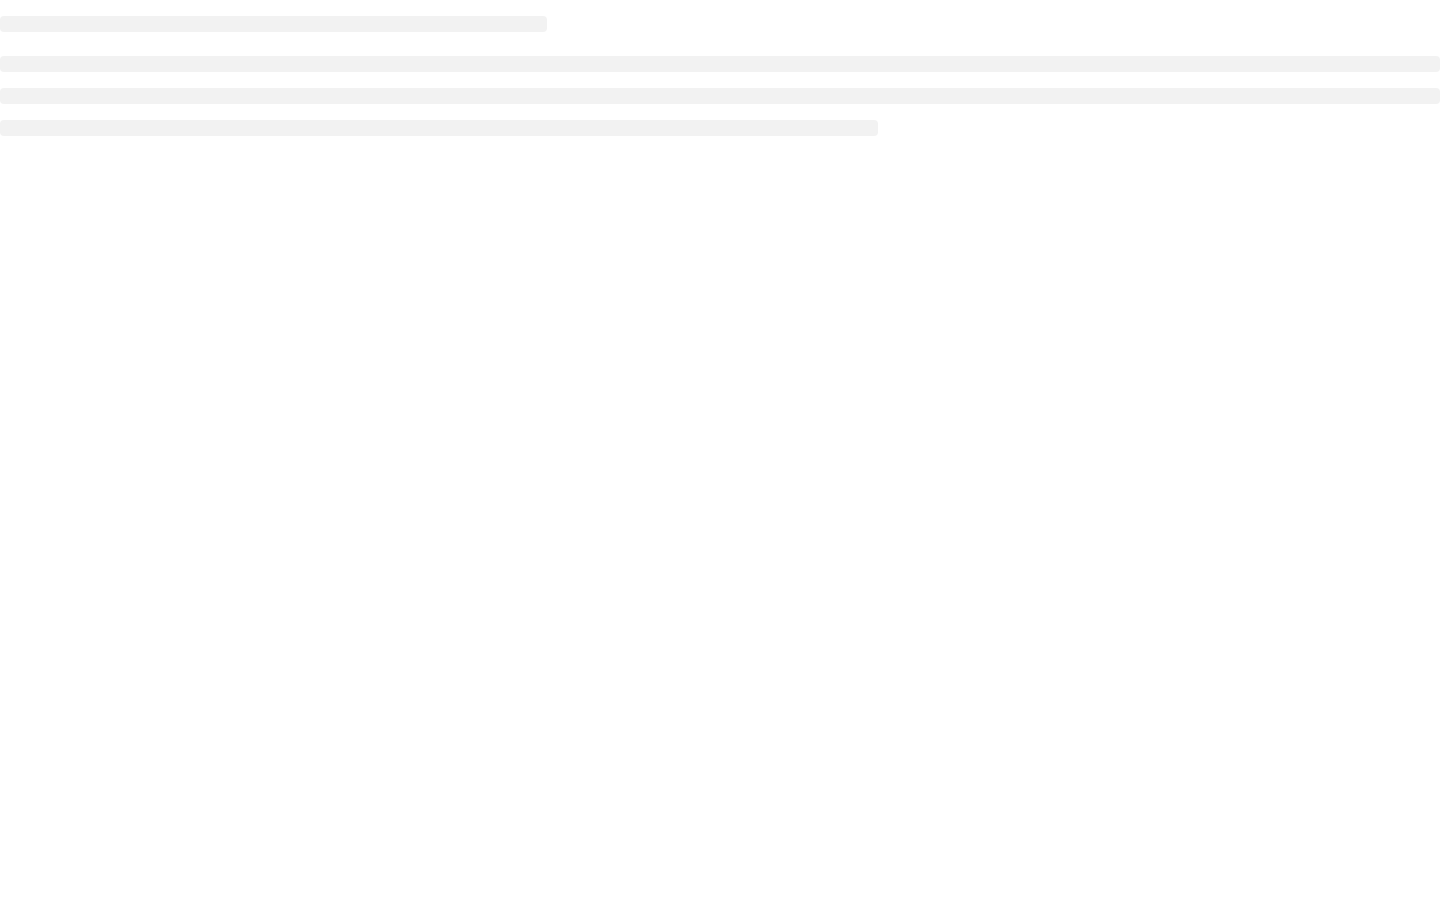
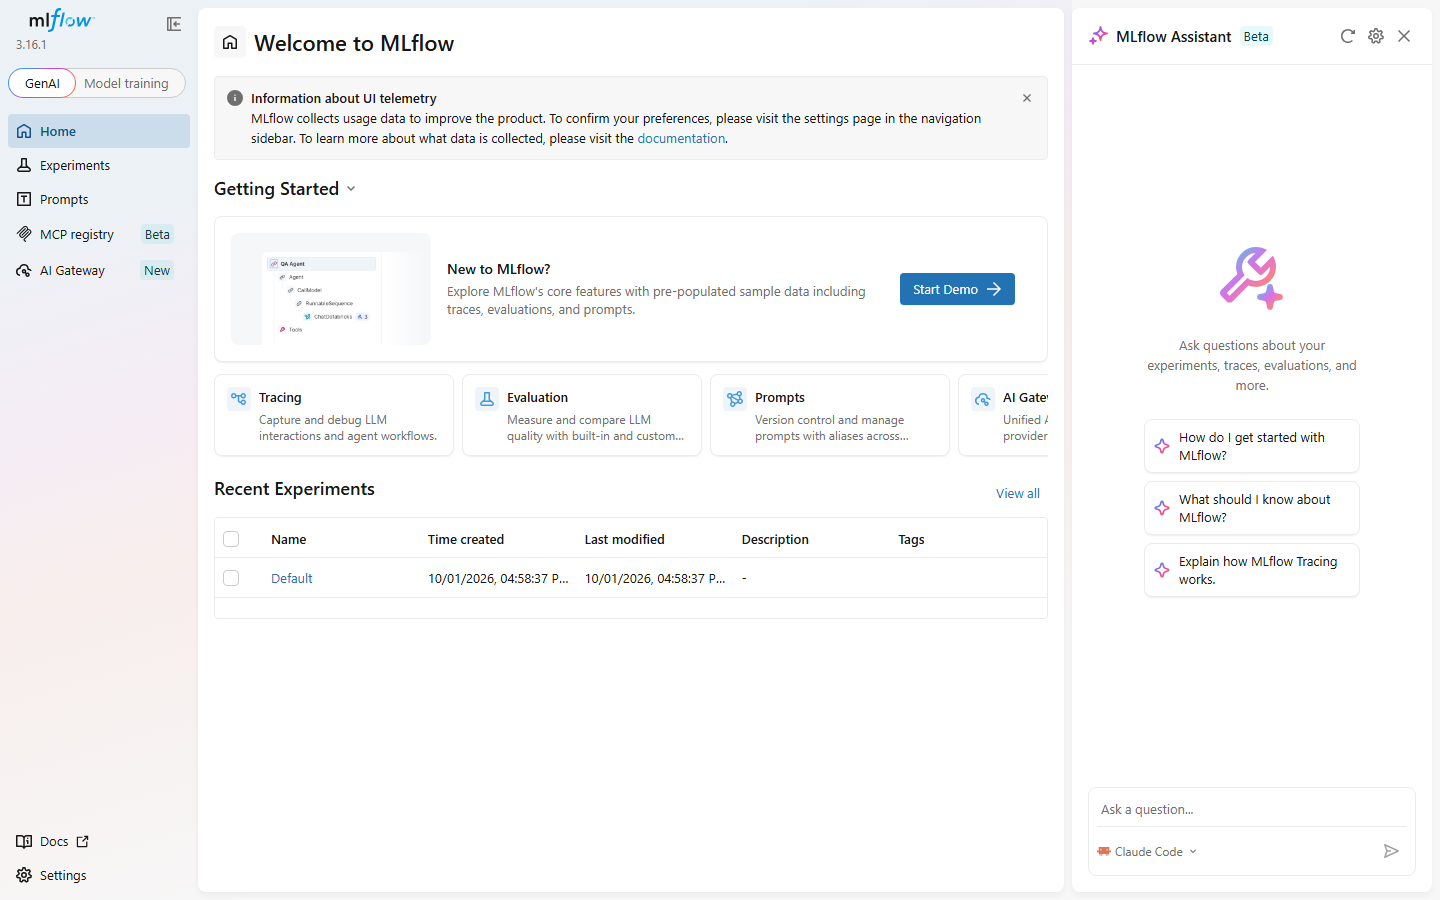
fix(docs): replace webp with animated gif tour and update grafana and mlflow screenshots

diff --git a/README.md b/README.md
@@ -122,8 +122,8 @@ flowchart TD
 ## 📸 Live Platform Gallery & Video Tour
 
 <div align="center">
-  <img src="docs/media/aegis_ports_tour.webp" alt="Aegis Multi-Port Live Tour" width="850px" />
-  <p><i>Live browser session recording across all platform ports (8000, 9091, 3001, 5000)</i></p>
+  <img src="docs/media/aegis_ports_tour.gif" alt="Aegis Multi-Port Live Tour" width="850px" />
+  <p><i>Live browser session recording cycling across all platform ports (8000, 9091, 3001, 5000)</i></p>
 </div>
 
 | Port | Service Component | Interactive View |
